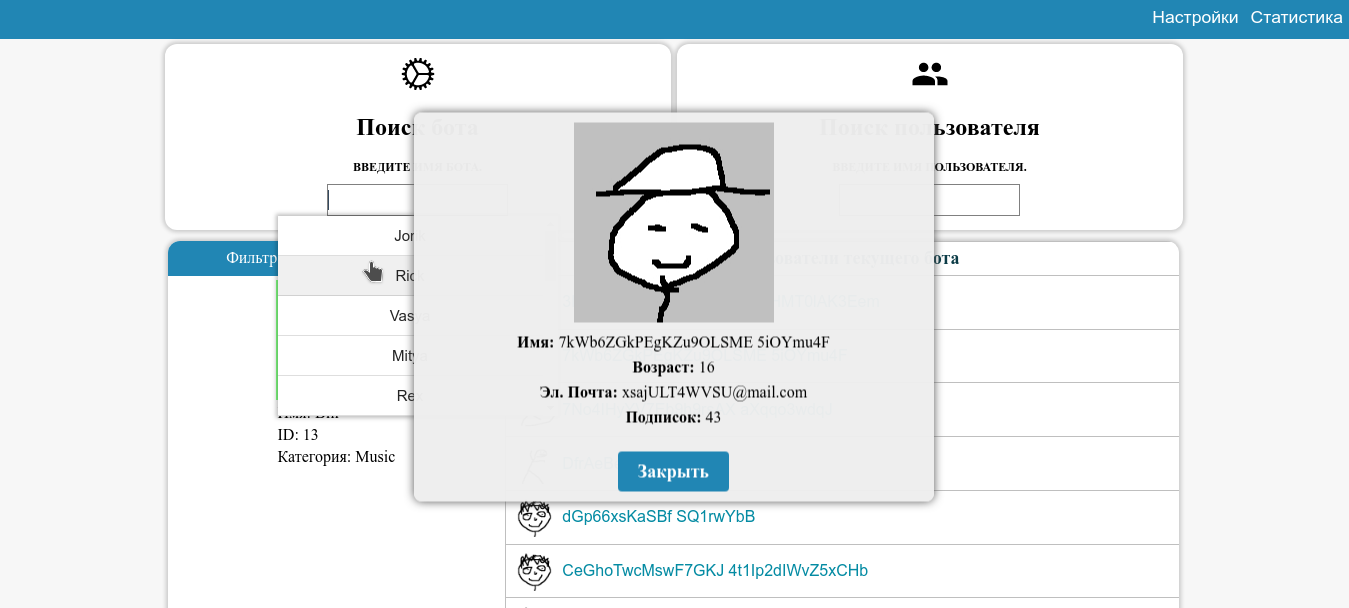
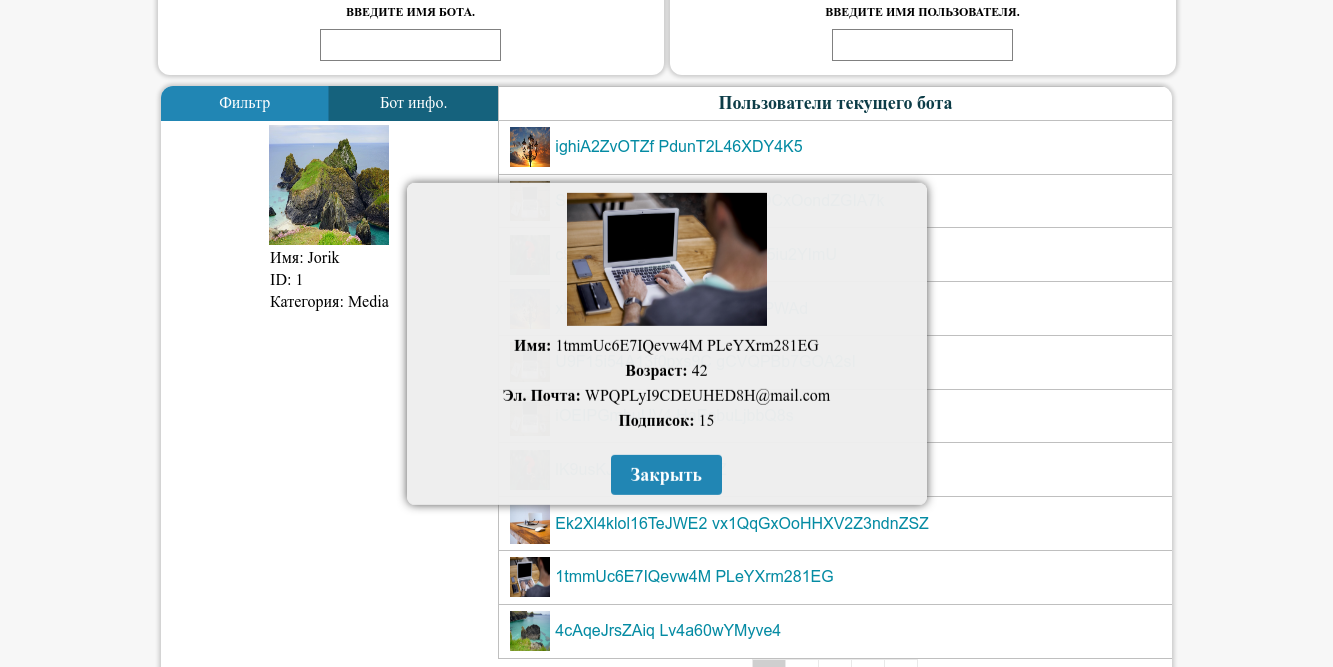
readme updated, frontend: onload page show bot info

Changed region(s): [[0.0, 0.0, 1.0, 1.0]]

diff --git a/frontend/src/components/AdminPanelSearch/AdminPanel.tsx b/frontend/src/components/AdminPanelSearch/AdminPanel.tsx
@@ -1,9 +1,17 @@
-import React, { FC, Fragment } from 'react'
+import React, { FC, Fragment, useEffect } from 'react'
 import { AdminPanelSearch } from '@/components/AdminPanelSearch/SearchForm/AdminPanelSearch'
 import { BotSubscribers } from '@/components/AdminPanelSearch/BotInfo/BotSubscribers'
 import { UserInfoAlertContainer } from '@/components/UserInfoAlert/UserInfoAlertContainer'
+import { useDispatch } from 'react-redux'
+import { Dispatch } from 'redux'
+import { fetchBot } from '@/store/Bot/actionCreators'
 
 export const AdminPanel: FC = () => {
+  const dispatch: Dispatch = useDispatch()
+  useEffect(() => {
+    dispatch(fetchBot(1))
+  }, [])
+
   return (
     <Fragment>
       <UserInfoAlertContainer />

diff --git a/README.MD b/README.MD
@@ -2,7 +2,7 @@
     
 [Ссылка на тестовое задание](https://paper.dropbox.com/doc/Frontend-Engineer-GFOYvLYpCLWUJe59Ydfmw)
 
-[Демо](https://admin-panel-01.herokuapp.com/)
+## [Демо](https://admin-panel-01.herokuapp.com/)
 
 Откуда узнал о ТЗ?   [Github->Hexlet](https://github.com/Hexlet/ru-test-assignments)
 
